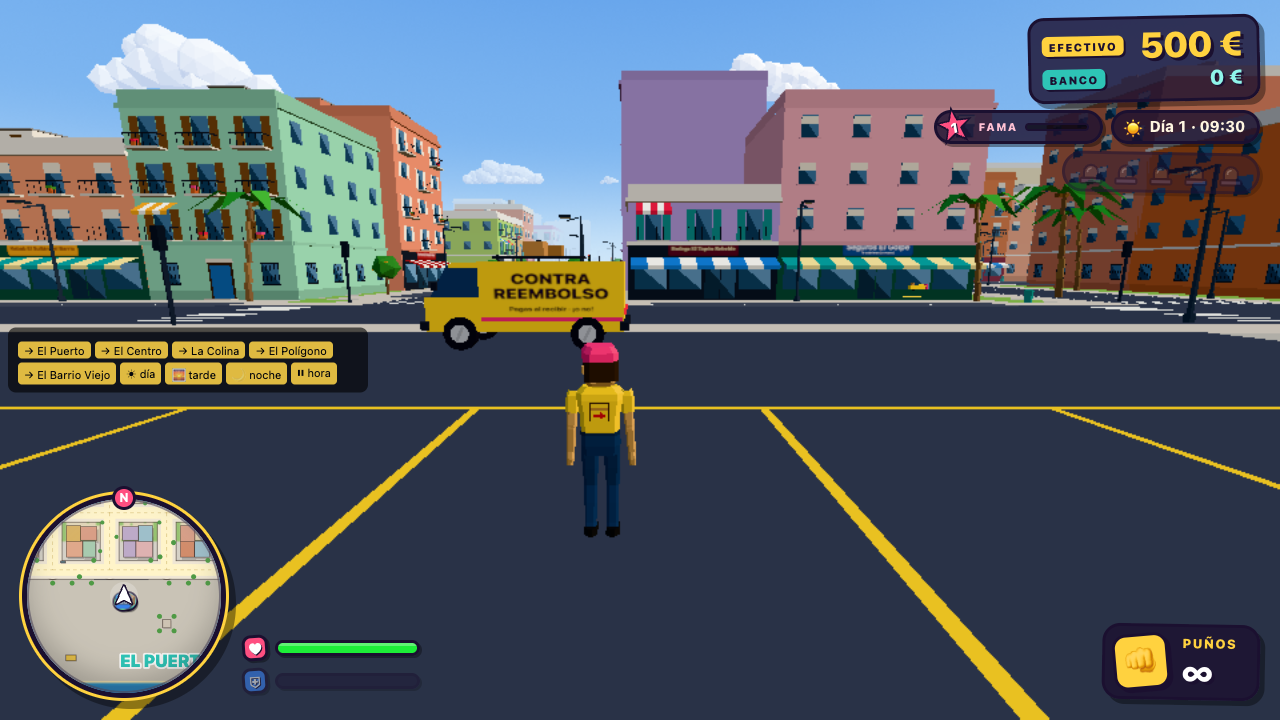
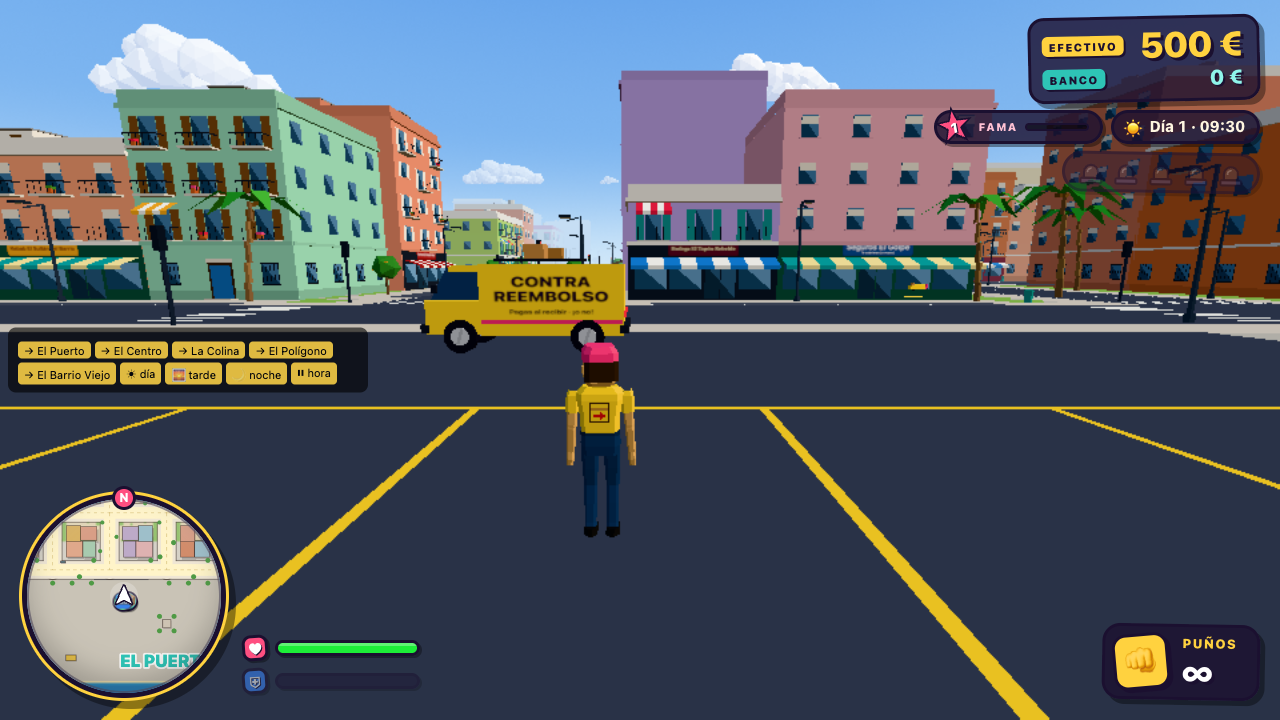
Fase 4 publicada: móvil con encargos, clientes absurdos, integridad, cobro en efectivo, cajeros y botín en la guarida

Changed region(s): [[0.3438, 0.3361, 0.5, 0.4889]]

diff --git a/src/main.ts b/src/main.ts
@@ -15,7 +15,7 @@ import { registerSaveSections } from './gameplay/saveSections';
 import type { WorldData } from './core/contracts';
 
 /** Fase publicada: los sistemas de fases posteriores no se activan todavía. */
-export const FASE = 3;
+export const FASE = 4;
 
 async function boot() {
   const loading = new LoadingScreen();

diff --git a/PROGRESO.md b/PROGRESO.md
@@ -4,7 +4,15 @@ Enlace: https://agarroda-bit.github.io/contra-reembolso/
 
 Si pierdes el contexto: relee `ENCARGO.md`, este archivo y `DECISIONES.md`, y sigue.
 
-## Fase actual: 4 — Encargos y dinero (integrando)
+## Fase actual: 5 — Tiendas y progreso (integrando)
+
+## Fase 4 — Encargos y dinero ✅ (26/09, 07:10, publicada)
+- Móvil «Pomelo» (Tab) con la app de mensajería inventada «PaqueChat»: van llegando encargos de clientes con qué quieren, dónde, cuánto pagan y el tiempo; se aceptan con un botón o Enter. Apps de Banco, Fama y Ayuda.
+- Encargos: recoger en la oficina o en tiendas (📦 en el mapa y columna de luz en la puerta), llevar sin romper (la integridad baja con golpes y saltos), entregar con E y cobrar en EFECTIVO; propina si llega rápido y entero, menos dinero si llega roto o tarde.
+- Tipos: FRÁGIL, URGENTE, SOSPECHOSO (triple y emboscada), PESADO (solo furgoneta o furgón). Capacidad según vehículo; a pie, un paquete.
+- 16 clientes absurdos con muchas frases y 7 manías con escena: la abuela que cuenta céntimos, el «déjaselo al vecino» (que es de la banda y te lo roba), el que cambia de dirección al llegar, la de pijama con el perro Pancho que te persigue, el que dice que no ha pedido nada, la influencer que te graba y el que regatea (E acepta, Q regatea).
+- Cajeros 🏧 (3) para ingresar el efectivo. Si te matan Los Devueltos, se llevan tu efectivo y tus paquetes a su guarida: tienes un día de juego para asaltarla y abrir la caja fuerte. Las embestidas de la furgoneta morada tiran paquetes al suelo, y si paras, te sacan del vehículo.
+- Pruebas: + abrir el móvil y aceptar un encargo (`capturas/fase-4/`).
 
 ## Fase 3 — Armas y enemigos ✅ (26/09, 07:00, publicada)
 - Armas normales: pistola (empiezas con ella), escopeta, subfusil y fusil; locas: lanzapaquetes (cajas que rebotan y tumban) y pistola de cinta de embalar (deja pegados al suelo). Hay una tirada en cada barrio, más botiquines y un chaleco; reaparecen a los 3 min.
